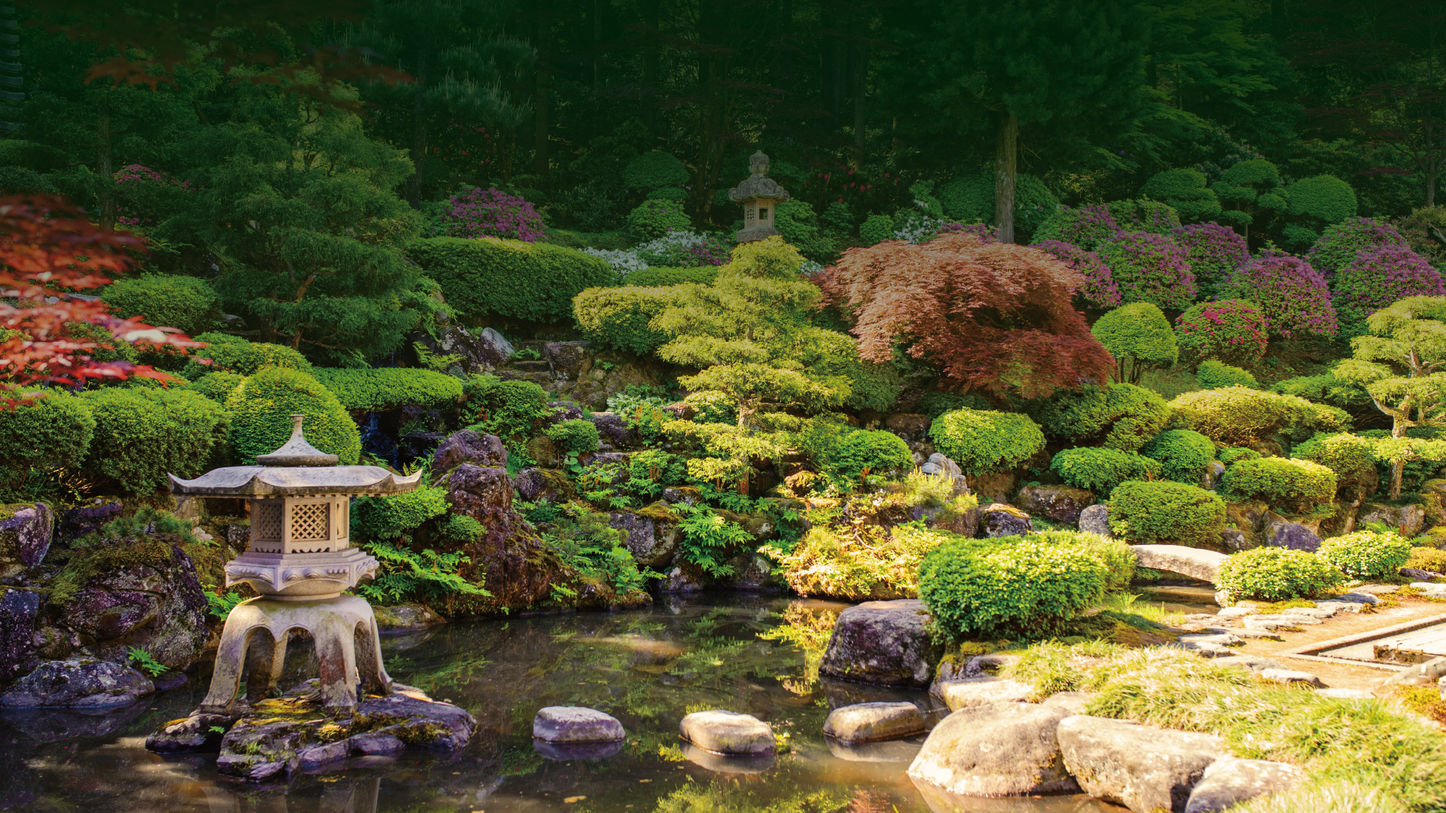
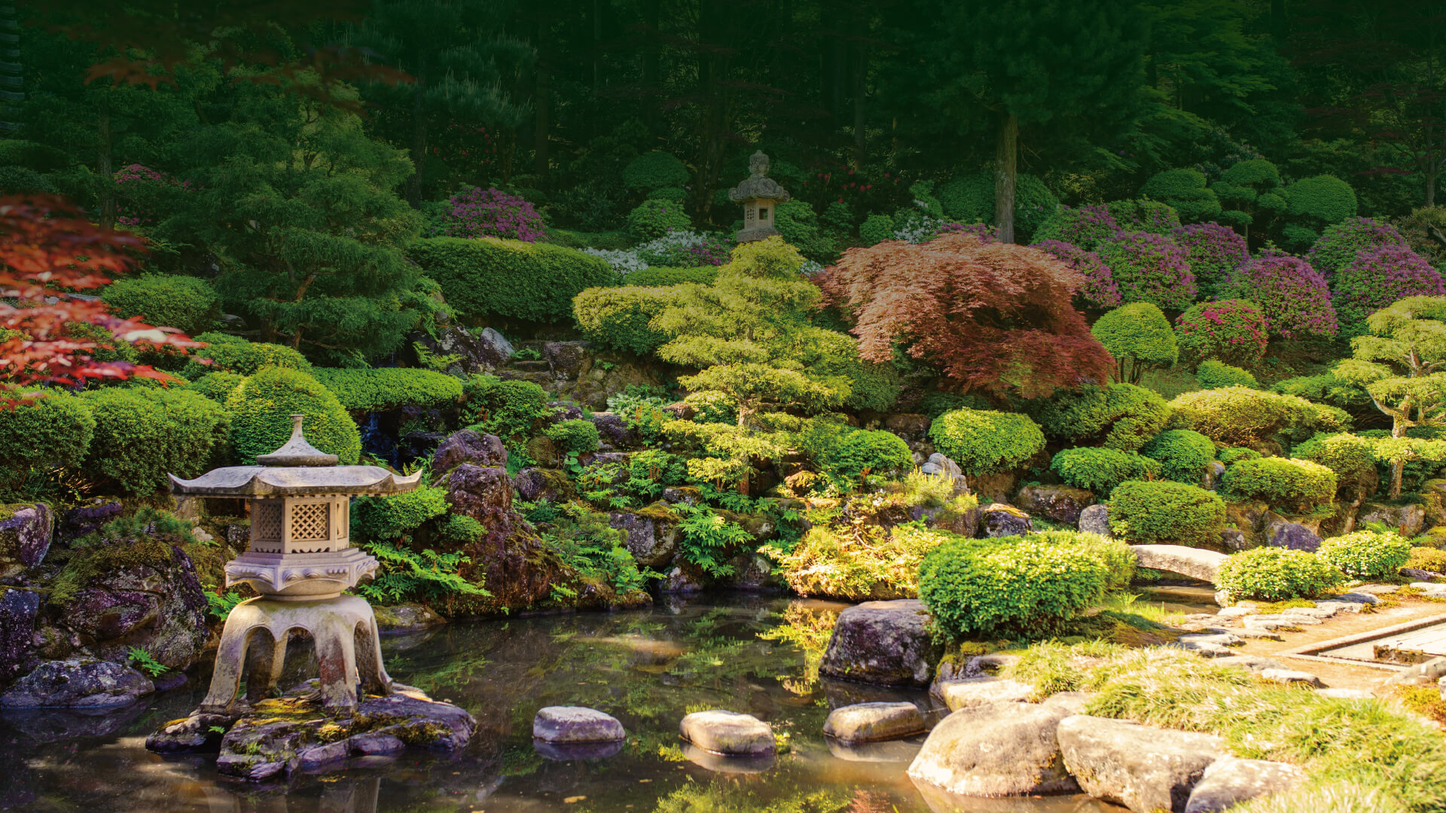
圖片壓縮

diff --git a/index.html b/index.html
@@ -35,7 +35,7 @@
             <ul>
                 <li><a href="https://lin.ee/1LJcsRG">預約賞屋</a></li>
                 <li><a href="tel:03-3321999">撥打電話</a></li>
-                <li><a href="#" target="_blank">地圖導航</a></li>
+                <li><a href="https://maps.app.goo.gl/YaxQMZzUhxJKUPGx7" target="_blank">地圖導航</a></li>
                 <li><a href="#" target="_blank">分享好友</a></li>
             </ul>
         </div>

diff --git a/scss/style.scss b/scss/style.scss
@@ -737,8 +737,8 @@ section{
             max-width: 176px;
             margin: 0 auto 5%;
             @media (min-width:1200px) {
-                width: calc(176/1600*100%);
-                max-width: 176px;
+                width: calc(240/1600*100%);
+                max-width: 240px;
                 margin: 0 auto 60px;
             }
         }

diff --git a/css/style.css b/css/style.css
@@ -980,8 +980,8 @@ section .theme4 .map {
 
 @media (min-width: 1200px) {
   section .theme4 .map {
-    width: calc(176/1600*100%);
-    max-width: 176px;
+    width: calc(240/1600*100%);
+    max-width: 240px;
     margin: 0 auto 60px;
   }
 }
